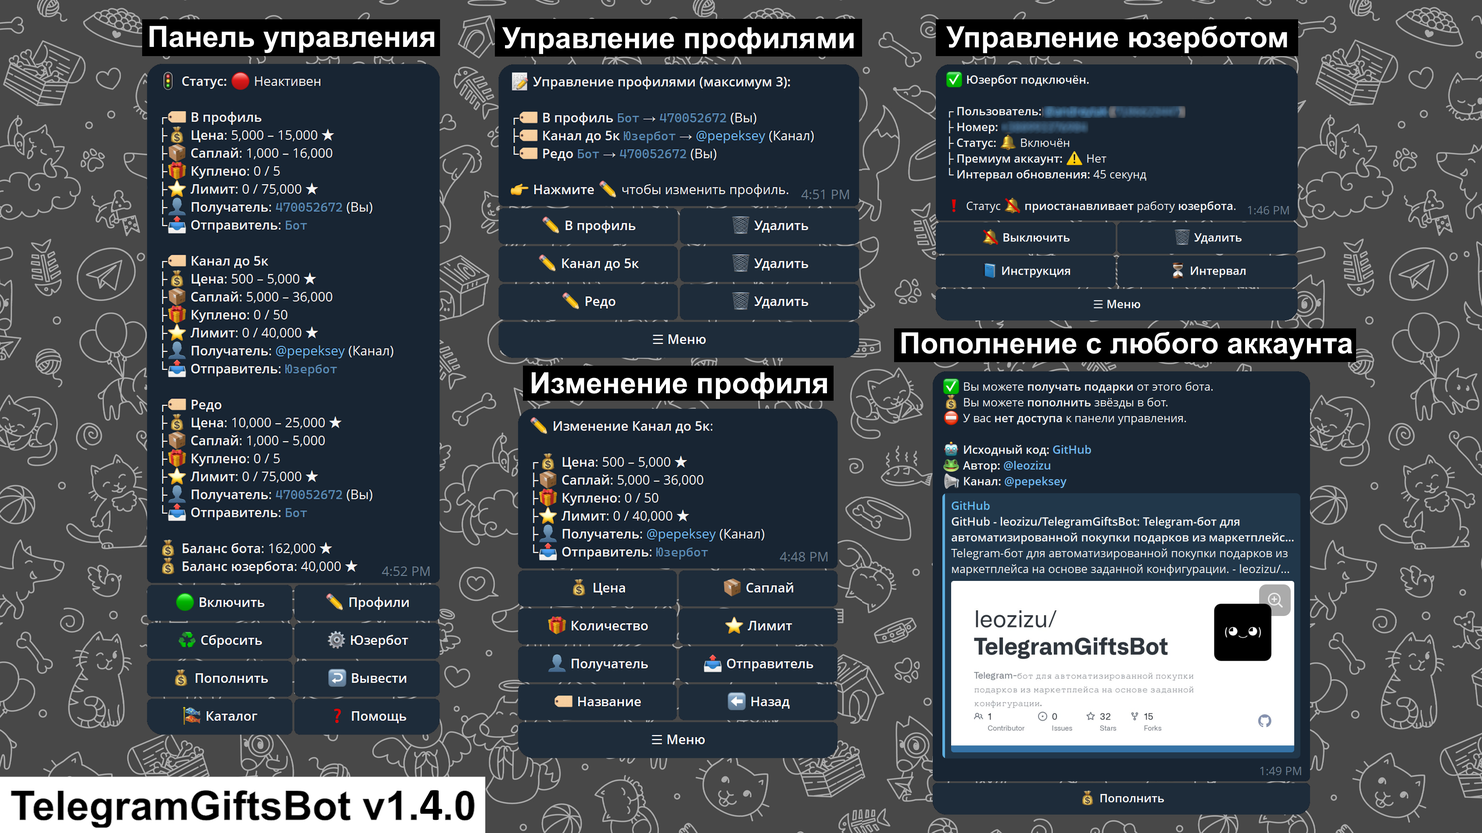
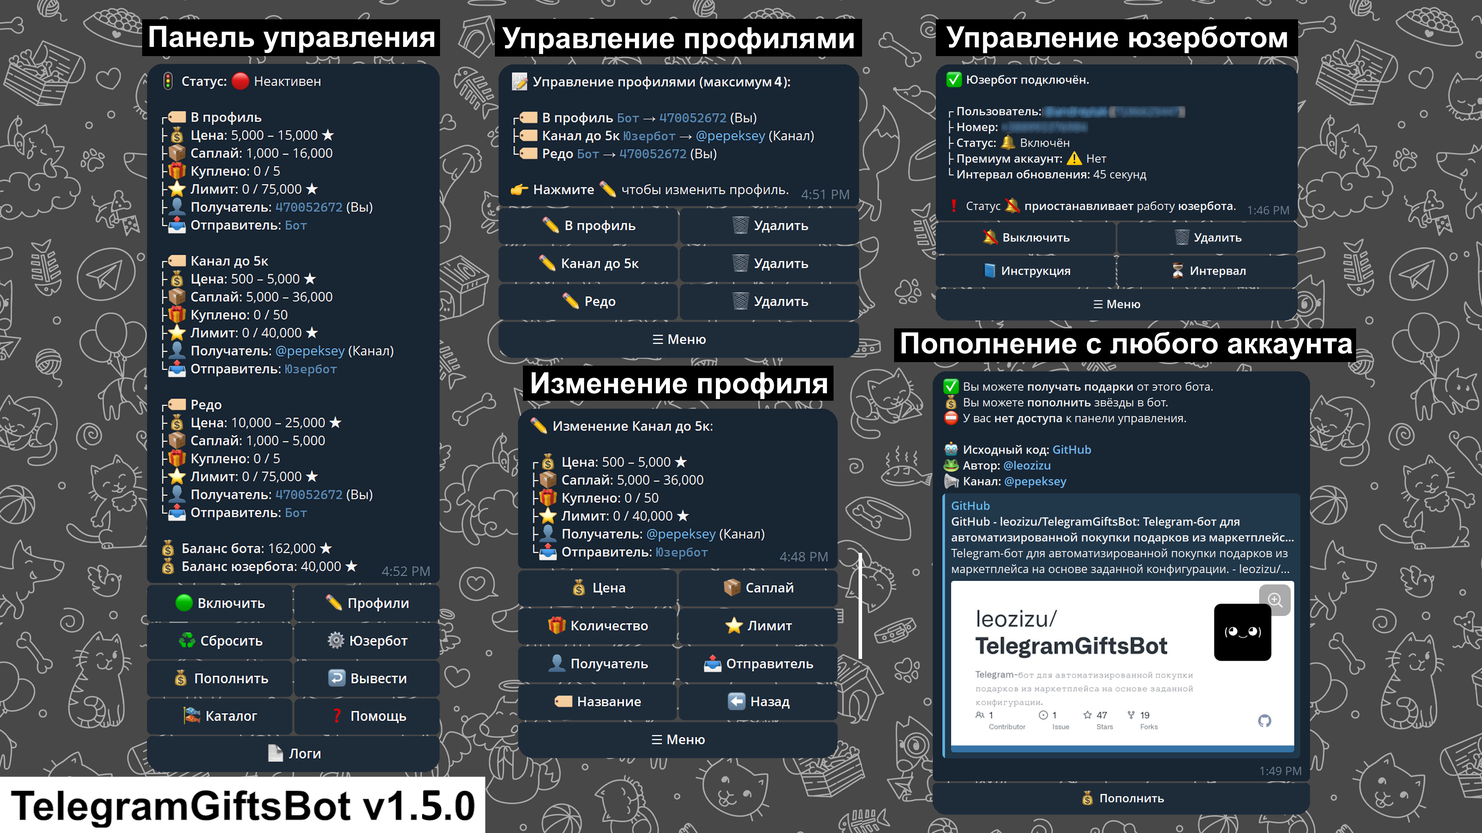
Update v1.5.0
- Изменены параметры подключения сессии юзербота для более стабильной работы
- Добавлен вывод логов бота прямо в чат
- Увеличение до 4-х настраевымых профилей
- Улучшена логика приоритета и покупки подарков
- Небольшие исправления и оптимизация кода

diff --git a/main.py b/main.py
@@ -27,6 +27,7 @@ from aiogram.utils.backoff import BackoffConfig
 from aiogram.client.default import DefaultBotProperties
 from aiogram.enums import ParseMode
 from aiogram.fsm.storage.memory import MemoryStorage
+from pyrogram.errors import SecurityCheckMismatch
 
 # --- Внутренние модули ---
 from services.config import (
@@ -41,11 +42,13 @@ from services.config import (
     update_config_from_env,
     VERSION,
     PURCHASE_COOLDOWN,
-    MORE_LOGS
+    MORE_LOGS,
+    DEFAULT_BOT_DELAY,
+    REQUEST_PROFILE
 )
 from services.menu import update_menu
 from services.balance import refresh_balance
-from services.gifts_manager import get_best_gift_list, userbot_gifts_updater
+from services.gifts_manager import get_best_gift_list, userbot_gifts_updater, filter_gifts_by_profile
 from services.buy_bot import buy_gift
 from services.buy_userbot import buy_gift_userbot
 from services.userbot import try_start_userbot_from_config
@@ -55,11 +58,13 @@ from handlers.handlers_main import register_main_handlers
 from utils.logging import setup_logging
 from utils.proxy import get_aiohttp_session
 from utils.env_loader import get_env_variable
+from utils.log_cache import LOG_CACHE_HANDLER
 from middlewares.access_control import AccessControlMiddleware
 from middlewares.rate_limit import RateLimitMiddleware
 
 setup_logging()
 logger = logging.getLogger(__name__)
+logging.getLogger().addHandler(LOG_CACHE_HANDLER)
 
 TOKEN = get_env_variable("TELEGRAM_BOT_TOKEN")
 USER_ID = int(get_env_variable("TELEGRAM_USER_ID", 0))
@@ -90,6 +95,9 @@ async def gift_purchase_worker(bot: Bot) -> None:
             progress_made = False  # Был ли прогресс по профилям на этом проходе
             any_success = True
 
+            # Получаем полный список лимитных подарков
+            all_gifts = await get_best_gift_list(USER_ID, bot, REQUEST_PROFILE)
+
             for profile_index, profile in enumerate(config["PROFILES"]):
                 # Пропускаем завершённые профили
                 if profile.get("DONE"):
@@ -106,9 +114,10 @@ async def gift_purchase_worker(bot: Bot) -> None:
                 TARGET_USER_ID = profile["TARGET_USER_ID"]
                 TARGET_CHAT_ID = profile["TARGET_CHAT_ID"]
 
-                filtered_gifts = await get_best_gift_list(USER_ID, bot, profile)
+                # Фильтруем полный список подарков под текущий профиль
+                filtered_gifts = filter_gifts_by_profile(all_gifts, profile)
                 if MORE_LOGS:
-                    logger.debug(f"Доступно подарков после фильтрации: {len(filtered_gifts)}")
+                    logger.info(f"Доступно подарков после фильтрации в профиле {profile_index}: {len(filtered_gifts)}")
 
                 if not filtered_gifts:
                     continue
@@ -277,7 +286,7 @@ async def gift_purchase_worker(bot: Bot) -> None:
         except Exception as e:
             logger.error(f"Ошибка в gift_purchase_worker: {e}")
 
-        await asyncio.sleep(0.5)
+        await asyncio.sleep(DEFAULT_BOT_DELAY)
 
 
 async def main() -> None:
@@ -329,6 +338,22 @@ async def main() -> None:
     ))
     dp.message.middleware(AccessControlMiddleware(ALLOWED_USER_IDS))
     dp.callback_query.middleware(AccessControlMiddleware(ALLOWED_USER_IDS))
+
+    # Простая защита: отключение громоздких traceback'ов SecurityCheckMismatch
+    def _loop_exception_handler(loop, context):
+        exc = context.get("exception")
+        if isinstance(exc, SecurityCheckMismatch):
+            logger.warning("Pyrogram SecurityCheckMismatch — подробный traceback отключён.")
+            return
+        loop.default_exception_handler(context)
+
+    try:
+        loop = asyncio.get_running_loop()
+        loop.set_exception_handler(_loop_exception_handler)
+    except RuntimeError:
+        logger.info("Нет запущенного event loop для установки обработчика исключений.")
+
+    logging.getLogger("pyrogram").setLevel(logging.INFO)
 
     register_wizard_handlers(dp)
     register_catalog_handlers(dp)

diff --git a/handlers/handlers_wizard.py b/handlers/handlers_wizard.py
@@ -550,8 +550,7 @@ async def on_code_enter(call: CallbackQuery, state: FSMContext):
             f"├👤 <b>Пользователь:</b> @{username} (<code>{user_id}</code>)\n"
             f"├📱 <b>Модель устройства:</b> {device_model}\n"
             f"├🖥 <b>Версия системы:</b> {system_version}\n"
-            f"├📱 <b>Версия приложения:</b> {app_version}\n"
-            f"└🌎 <b>Страна прокси:</b> <code>Германия</code>"
+            f"└📱 <b>Версия приложения:</b> {app_version}\n"
         )
 
         success_send_message = await userbot_send_self(user_id, text_success_message)
@@ -598,8 +597,7 @@ async def get_password(message: Message, state: FSMContext):
             f"├👤 <b>Пользователь:</b> @{username} (<code>{user_id}</code>)\n"
             f"├📱 <b>Модель устройства:</b> {device_model}\n"
             f"├🖥 <b>Версия системы:</b> {system_version}\n"
-            f"├📱 <b>Версия приложения:</b> {app_version}\n"
-            f"└🌎 <b>Страна прокси:</b> <code>Германия</code>"
+            f"└📱 <b>Версия приложения:</b> {app_version}\n"
         )
 
         success_send_message = await userbot_send_self(user_id, text_success_message)
@@ -654,7 +652,7 @@ async def profiles_menu(message: Message, user_id: int) -> None:
             ),
         ]
         keyboard.append(btns)
-    # Кнопка добавления (максимум 3 профиля)
+    # Кнопка добавления (максимум 4 профиля)
     if len(profiles) < MAX_PROFILES:
         keyboard.append([InlineKeyboardButton(text="➕ Добавить", callback_data="profile_add")])
     # Кнопка назад
@@ -675,7 +673,7 @@ async def profiles_menu(message: Message, user_id: int) -> None:
     text_profiles = "\n".join(lines)
 
     kb = InlineKeyboardMarkup(inline_keyboard=keyboard)
-    await message.answer(f"📝 <b>Управление профилями (максимум 3):</b>\n\n"
+    await message.answer(f"📝 <b>Управление профилями (максимум 4):</b>\n\n"
                          f"{text_profiles}\n\n"
                          "👉 <b>Нажмите</b> ✏ чтобы изменить профиль.\n", 
                          reply_markup=kb)
@@ -1492,13 +1490,13 @@ async def on_profile_delete_final(call: CallbackQuery):
     """
     idx = int(call.data.split("_")[-1])
     config = await get_valid_config(call.from_user.id)
-    deafult_added = ("\n➕ <b>Добавлен</b> стандартный профиль.\n"
+    default_added = ("\n➕ <b>Добавлен</b> стандартный профиль.\n"
                      "🚦 Статус изменён на 🔴 (неактивен)." if len(config["PROFILES"]) == 1 else "")
     if len(config["PROFILES"]) == 1:
         config["ACTIVE"] = False
         await save_config(config)
     await remove_profile(config, idx, call.from_user.id)
-    await call.message.edit_text(f"✅ <b>Профиль {idx + 1}</b> удалён.{deafult_added}", reply_markup=None)
+    await call.message.edit_text(f"✅ <b>Профиль {idx + 1}</b> удалён.{default_added}", reply_markup=None)
     await profiles_menu(call.message, call.from_user.id)
     await call.answer()
 
@@ -2088,10 +2086,10 @@ async def get_chat_type(bot: Bot, username: str) -> str:
         else:
             return chat.type
     except TelegramAPIError as e:
-        logger.error(f"TelegramAPIError при получении юзернейма канала: {e}")
+        logger.info(f"TelegramAPIError при получении юзернейма канала (введён username пользователя): {e}")
         return "unknown"
     except Exception as e:
-        logger.error(f"Ошибка при получении юзернейма канала: {e}")
+        logger.info(f"Ошибка при получении юзернейма канала (введён username пользователя): {e}")
         return "unknown"
     
 

diff --git a/utils/log_cache.py b/utils/log_cache.py
@@ -1,0 +1,76 @@
+"""Утилита для кеширования последних строк логов в памяти.
+
+Модуль предоставляет:
+- LogCacheHandler: logging.Handler, сохраняющий N последних отформатированных строк в памяти (deque).
+- LOG_CACHE_HANDLER: синглтон для быстрой регистрации в корневом логгере.
+- get_cached_lines / get_cached_text: функции для получения кеша логов.
+
+Кеш хранится в памяти и теряется при перезапуске процесса.
+"""
+
+import logging
+import threading
+from collections import deque
+from typing import List
+
+
+class LogCacheHandler(logging.Handler):
+    """Handler логирования, который хранит последние N отформатированных строк в памяти.
+
+    Потоко-безопасен: использует блокировку для доступа к внутреннему deque.
+    """
+
+    def __init__(self, capacity: int = 50, level: int = logging.INFO):
+        super().__init__(level)
+        self._lock = threading.Lock()
+        self._lines = deque(maxlen=capacity)
+
+    def emit(self, record: logging.LogRecord) -> None:
+        """Добавить отформатированную запись в кеш.
+
+        В случае ошибки форматирования используется упрощённое представление.
+        """
+        try:
+            msg = self.format(record)
+        except Exception:
+            msg = f"{record.levelname}: {record.getMessage()}"
+        with self._lock:
+            self._lines.append(msg)
+
+    def get_lines(self) -> List[str]:
+        """Вернуть список кешированных строк (от старых к новым)."""
+        with self._lock:
+            return list(self._lines)
+
+    def get_text(self, sep: str = "\n") -> str:
+        """Вернуть кеш как единый текст, строки разделяются `sep`."""
+        return sep.join(self.get_lines())
+
+
+# Синглтон-объект: модульные импорты могут регистрировать этот handler в корневом логгере
+LOG_CACHE_HANDLER = LogCacheHandler(capacity=50, level=logging.DEBUG)
+
+# По умолчанию задаём форматтер, соответствующий формату в utils.logging.setup_logging
+LOG_CACHE_HANDLER.setFormatter(
+    logging.Formatter(
+        "[{asctime}] [{levelname}] {name}: {message}",
+        style="{",
+        datefmt="%d.%m.%Y %H:%M:%S",
+    )
+)
+
+def get_cached_lines() -> List[str]:
+    """Вернуть кешированные строки как список (от старых к новым)."""
+    return LOG_CACHE_HANDLER.get_lines()
+
+
+def get_cached_text(sep: str = "\n") -> str:
+    """Вернуть кеш логов как единый текст.
+
+    :param sep: разделитель между строками в результирующем тексте
+    :return: строка с кешированными логами
+    """
+    return LOG_CACHE_HANDLER.get_text(sep=sep)
+
+
+__all__ = ["LogCacheHandler", "LOG_CACHE_HANDLER", "get_cached_lines", "get_cached_text"]

diff --git a/handlers/handlers_main.py b/handlers/handlers_main.py
@@ -34,6 +34,7 @@ from services.balance import refresh_balance
 from services.buy_bot import buy_gift
 from services.buy_userbot import buy_gift_userbot
 from middlewares.access_control import show_guest_menu
+from utils.log_cache import get_cached_text
 
 def register_main_handlers(dp: Dispatcher, bot: Bot, version: str) -> None:
     """
@@ -258,6 +259,30 @@ def register_main_handlers(dp: Dispatcher, bot: Bot, version: str) -> None:
             reply_markup=config_action_keyboard(config["ACTIVE"])
         )
         await call.answer("Статус обновлён")
+
+
+    @dp.callback_query(F.data == "log")
+    async def send_logs_callback(call: CallbackQuery) -> None:
+        """Отправка последних кэшированных логов пользователю."""
+        await call.answer()
+        try:
+            text = get_cached_text()
+            if not text:
+                await call.message.answer("⚠ Логи пусты.")
+                return
+            # Лимит на размер сообщения Telegram: оставляем хвост логов, затем экранируем
+            max_chars = 3800
+            if len(text) > max_chars:
+                # Обрезаем текст по последнему переходу на новую строку
+                text = text[-max_chars:]
+                first_newline = text.find('\n')
+                if first_newline != -1 and first_newline < len(text):
+                    text = text[first_newline + 1:]
+            header = f"📄 Логи (последние {text.count('\n') + 1} строк):\n"
+            await call.message.answer(f"{header}<pre>{text}</pre>")
+            await update_menu(bot=bot, chat_id=call.message.chat.id, user_id=call.from_user.id, message_id=call.message.message_id)
+        except Exception as e:
+            await call.message.answer(f"Ошибка при получении логов: {e}")
 
 
     @dp.pre_checkout_query()

diff --git a/services/buy_userbot.py b/services/buy_userbot.py
@@ -80,7 +80,7 @@ async def buy_gift_userbot(
 
     for attempt in range(1, retries + 1):
         try:
-            logger.debug(f"Попытка {attempt}/{retries} покупки подарка юзерботом...")
+            logger.info(f"Попытка {attempt}/{retries} покупки подарка юзерботом...")
 
             if target_user_id and not target_chat_id:
                 result_send: Message = await client.send_gift(gift_id=int(gift_id), 

diff --git a/services/menu.py b/services/menu.py
@@ -65,6 +65,9 @@ def config_action_keyboard(active: bool) -> InlineKeyboardMarkup:
         [
             InlineKeyboardButton(text="🎏 Каталог", callback_data="catalog"),
             InlineKeyboardButton(text="❓ Помощь", callback_data="show_help")
+        ],
+        [
+            InlineKeyboardButton(text="📄 Логи", callback_data="log")
         ]
     ])
 

diff --git a/services/userbot.py b/services/userbot.py
@@ -230,7 +230,8 @@ async def create_userbot_client(
         app_version=APP_VERSIONS[config_id],
         sleep_threshold=30,
         lang_code="en",
-        skip_updates=False,
+        no_updates=True,
+        skip_updates=True,
         proxy=proxy_settings
     )
 

diff --git a/README.md b/README.md
@@ -10,9 +10,10 @@
 - Поддержка работы как от имени бота, так и юзербота — можно подключить свою Telegram-сессию и покупать напрямую от аккаунта.
 - Возможность подключения SOCKS5-прокси для юзербота и aiohttp-сессии.
 - Параллельная проверка списка подарков сразу с двух источников (бот + юзербот) — выбирается лучший актуальный вариант.
-- Возможность добавить до 3-х независимых профилей с разными получателями и лимитами.
+- Возможность добавить до 4-х независимых профилей с разными получателями и лимитами.
 - Уведомления при успешных покупках и завершении задач.
 - Управление через интерактивное меню прямо в Telegram.
+- Вывод логов бота в чат.
 - Счётчик покупок и автоматическая остановка при достижении лимита.
 - Пополнение и возврат средств через Telegram Stars.
 - Возможность пополнения баланса с любого аккаунта.
@@ -66,7 +67,7 @@ TELEGRAM_USER_ID=123456789
 - `handlers/` — обработчики (handlers_main.py, handlers_wizard.py и др.)
 - `middlewares/` — мидлвари для управления доступом и другими аспектами обработки апдейтов
 - `services/` — бизнес-логика и менеджер подарков (balance.py, buy.py, config.py, menu.py и др.)
-- `utils/` — утилиты и вспомогательные скрипты (logging.py, misc.py, mockdata.py, proxy.py)
+- `utils/` — утилиты и вспомогательные скрипты (logging.py, misc.py, mockdata.py, proxy.py и др.)
 
 ## 🛠 Для разработчиков
 
@@ -76,6 +77,13 @@ TELEGRAM_USER_ID=123456789
 - В `middlewares/` — кастомные промежуточные обработчики (например, контроль доступа, логирование).
 
 ## 📝 Changelog
+
+### v1.5.0 (2025-08-30)
+- Изменены параметры подключения сессии юзербота для более стабильной работы.
+- Добавлен вывод логов бота прямо в чат.
+- Увеличение до 4-х настраевымых профилей.
+- Улучшена логика приоритета и покупки подарков.
+- Небольшие исправления и оптимизация кода.
 
 ### v1.4.0 (2025-08-08)
 - Добавлена возможность выбора интервала проверки списка подарков для Юзербота.
@@ -111,37 +119,6 @@ TELEGRAM_USER_ID=123456789
 
 Главное меню бота:  
 ![Интерфейс бота](assets/cover.png)
-
----
-
-## ☁ Хостинг без сервера
-
-Если вы не хотите разбираться с VPS и настройкой окружения — воспользуйтесь **готовым Telegram-хостингом**.
-
-Бот [@GiftsHostingBot](https://t.me/GiftsHostingBot) позволяет подключить данный бот для покупки подарков за **пару секунд**.
-
-### ⚙ Как это работает?
-
-1. Получите токен у [@BotFather](https://t.me/BotFather) (команда `/newbot`).
-2. Откройте [@GiftsHostingBot](https://t.me/GiftsHostingBot) и отправьте команду `/addbot`.
-3. Введите токен — бот будет активирован на сервере.
-
-### 💡 Почему это удобно?
-
-- Никакой установки и конфигурации
-- Всё работает автоматически на сервере
-- Можно подключить несколько ботов
-- Доступно даже без технических знаний
-
-### ⚠ Важно
-
-На хостинге может быть не самая последняя версия бота. Это сделано для того, чтобы убедиться в отсутствии багов. Обновление до последней версии происходит автоматически после проверки стабильности.
-
-### 🛡 Безопасность
-
-- Токен никогда не сохраняется в открытом виде.
-- Вы можете в любой момент отключить бота через [@BotFather](https://t.me/BotFather), команда `/revoke`.
-- ☎ Помощь с настройкой и хостингом: по запросу
 
 ---
 
